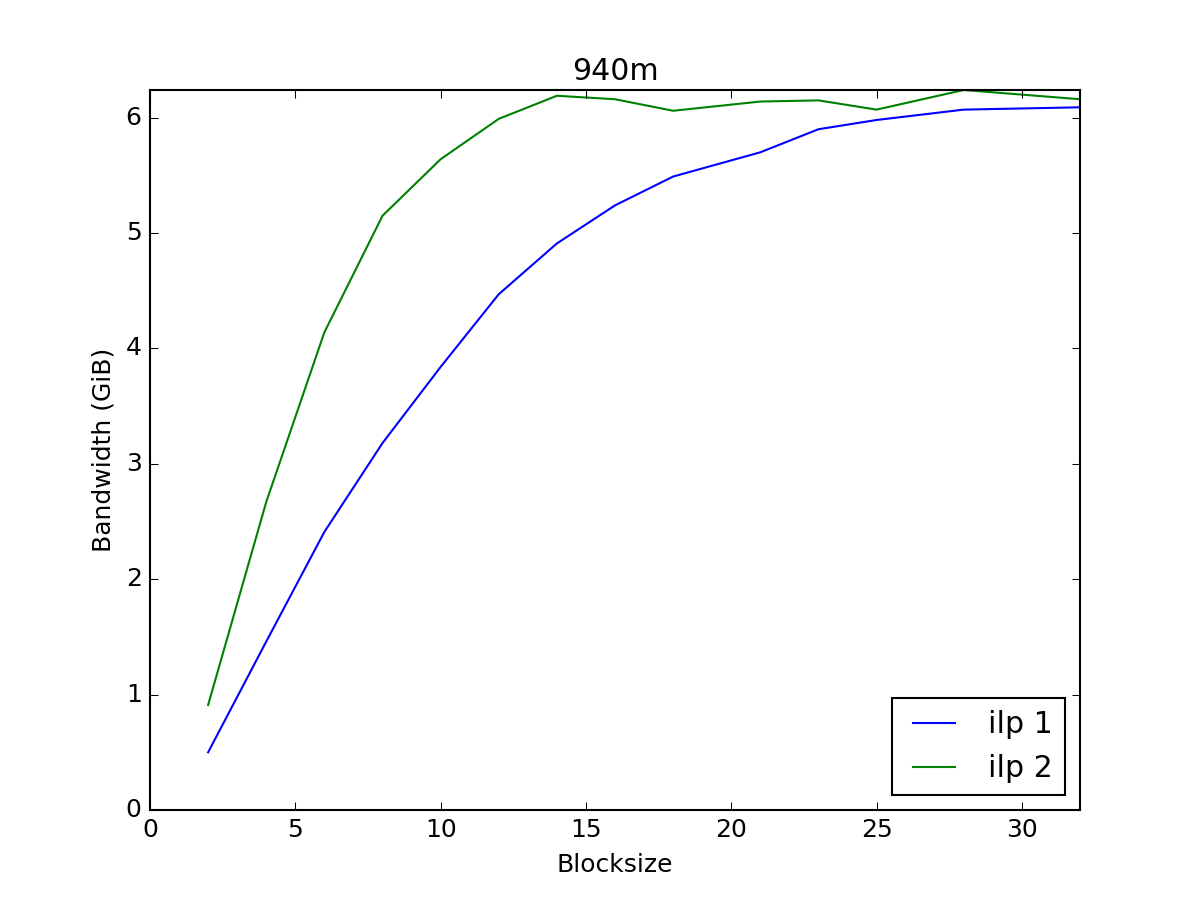
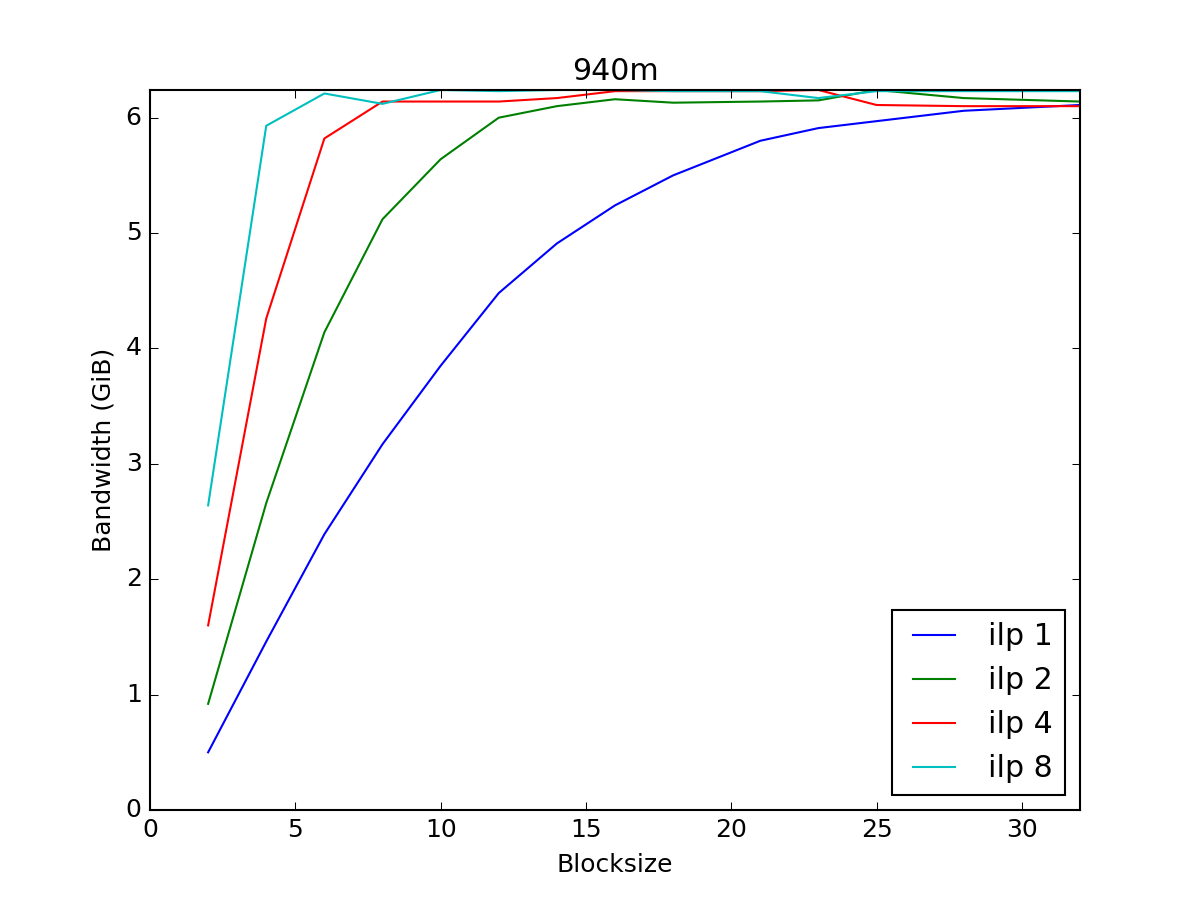
add ilp 4 8

diff --git a/gpuexperiments/volkov_memcpy_graphs.py b/gpuexperiments/volkov_memcpy_graphs.py
@@ -3,6 +3,7 @@ import argparse
 import string
 import numpy as np
 import os
+from collections import defaultdict
 import array
 import csv
 import matplotlib.pyplot as plt
@@ -27,34 +28,25 @@ for row in reader:
     times.append({'name': row['name'], 'bw': float(row['bw gib'])})
 f.close()
 
-X_list = []
-Y_list = []
-X2_list = []
-Y2_list = []
+X_list_by_ilp = defaultdict(list)
+Y_list_by_ilp = defaultdict(list)
+
 for timeinfo in times:
     name = timeinfo['name']
     x = int(timeinfo['name'].split('_')[-1].replace('bsm', ''))
     y = timeinfo['bw']
-    if name.startswith('memcpy_bsm') and 'ilp' not in name:
-        X_list.append(x)
-        Y_list.append(y)
-    else:
+    ilp = 1
+    if 'ilp' in name:
         ilp = int(timeinfo['name'].split('_')[1].replace('ilp', ''))
-        if ilp == 2:
-            X2_list.append(x)
-            Y2_list.append(y)
-X = np.array(X_list)
-Y = np.array(Y_list)
-X2 = np.array(X2_list)
-Y2 = np.array(Y2_list)
+    X_list_by_ilp[ilp].append(x)
+    Y_list_by_ilp[ilp].append(y)
 
-# print('X', X)
-# print('Y', Y)
 thismax = 0
-plt.plot(X, Y, label='ilp 1')
-thismax = max(thismax, max(Y))
-plt.plot(X2, Y2, label='ilp 2')
-thismax = max(thismax, max(Y2))
+for ilp in sorted(X_list_by_ilp.keys()):
+    X = np.array(X_list_by_ilp[ilp])
+    Y = np.array(Y_list_by_ilp[ilp])
+    plt.plot(X, Y, label='ilp %s' % ilp)
+    thismax = max(thismax, max(Y))
 
 #plt.axis([0, max(X), 0, max(Y)])
 plt.axis([0, max(X), 0, thismax])

diff --git a/gpuexperiments/volkov_memcpy.py b/gpuexperiments/volkov_memcpy.py
@@ -64,7 +64,9 @@ code_template = r"""
 
 experiments = [
     {'name': 'memcpy_bsm{bsm}', 'code': code_template, 'ilp': 1},
-    {'name': 'memcpy_ilp2_bsm{bsm}', 'code': code_template, 'ilp': 2}
+    {'name': 'memcpy_ilp2_bsm{bsm}', 'code': code_template, 'ilp': 2},
+    {'name': 'memcpy_ilp4_bsm{bsm}', 'code': code_template, 'ilp': 4},
+    {'name': 'memcpy_ilp8_bsm{bsm}', 'code': code_template, 'ilp': 8}
 ]
 
 full_occupancy_bsm = 32  # this should probably not be hard coded...
